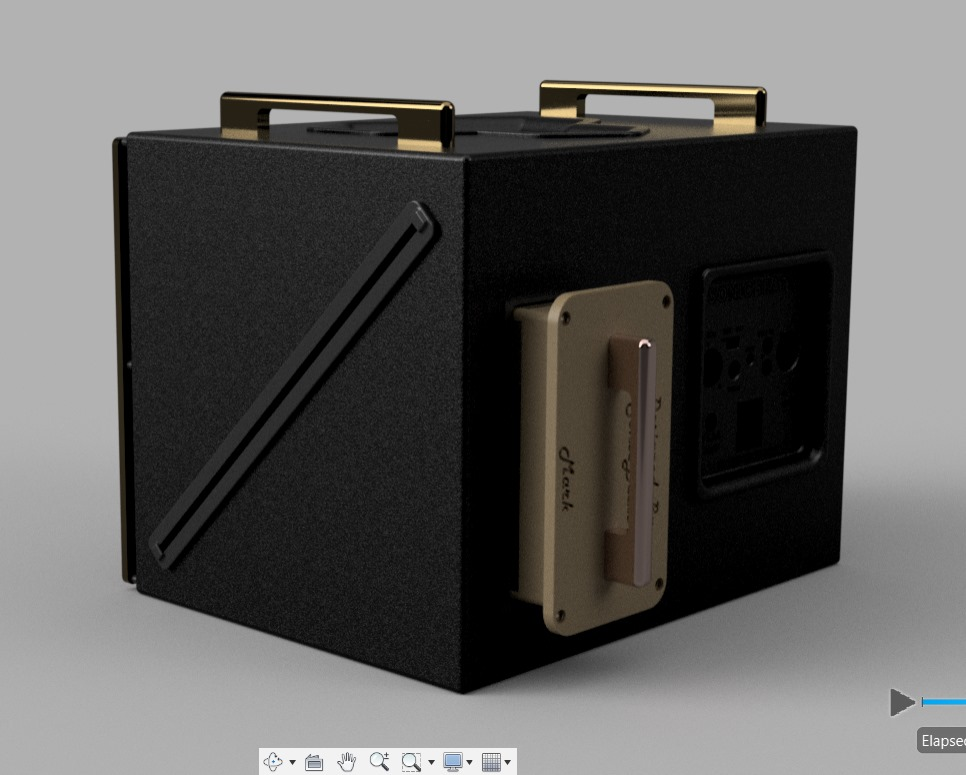
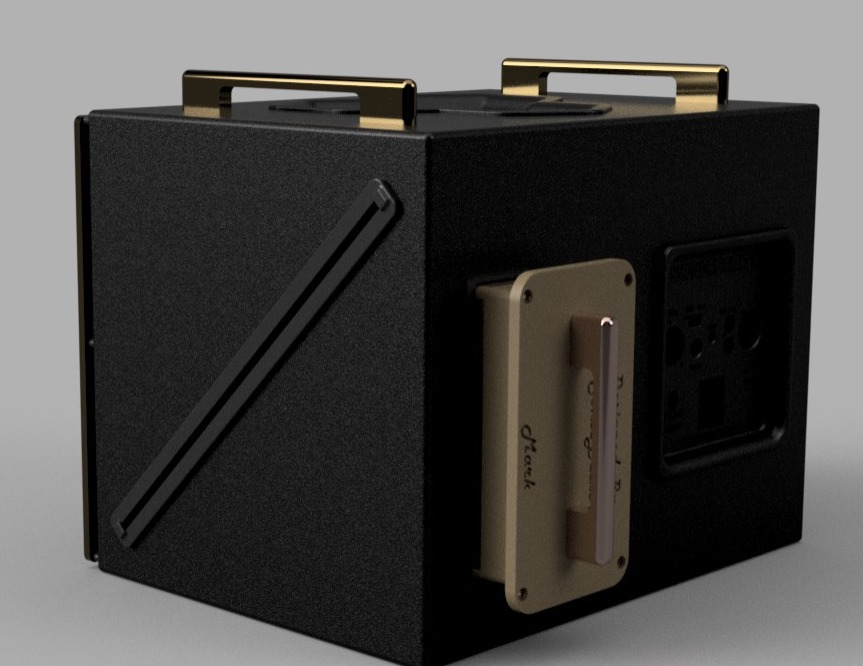
.

diff --git a/src/components/Shop/ProductsAvailable.js b/src/components/Shop/ProductsAvailable.js
@@ -18,11 +18,15 @@ import color3 from "../../assets/jpeg/ProductsAvailable/color3.jpeg";
 import color4 from "../../assets/jpeg/ProductsAvailable/color4.jpeg";
 import bg1 from "../../assets/jpeg/ProductsAvailable/bg1.jpeg";
 import bg2 from "../../assets/jpeg/ProductsAvailable/bg2.jpeg";
+import wine from "../../assets/jpeg/ProductsAvailable/wine.jpg";
+import people from "../../assets/jpeg/ProductsAvailable/people.jpg";
 
 
 export const ProductsAvailable = {
   Blackbox: {
-    image: BlackBox3,
+    image: wine,
+    image2: people,
+    image3: BlackBox3,
     image5: color2,
     image6: color3,
     image7: color4,
